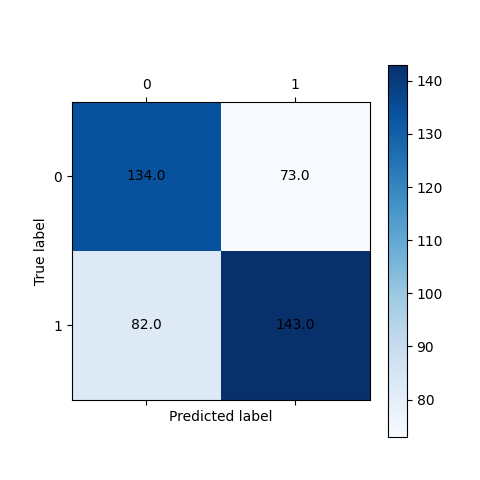
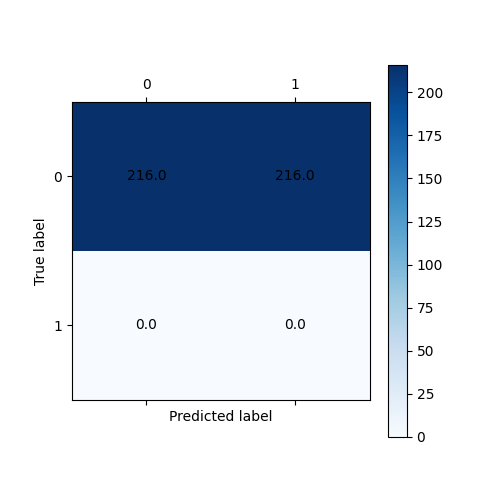
Update

diff --git a/test.py b/test.py
@@ -3,7 +3,7 @@ from exclusiveAI.Composer import Composer
 from exclusiveAI.components.Validation import *
 from exclusiveAI.components.Callbacks import *
 from exclusiveAI.datasets.monk import read_monk1
-from exclusiveAI.utils import confusion_matrix
+from exclusiveAI.utils import confusion_matrix, one_hot_encoding
 from exclusiveAI.components.Initializers import *
 # from exclusiveAI.components import *
 # from exclusiveAI import neural_network
@@ -54,34 +54,36 @@ import numpy as np
 # #
 # # print(res)
 
-train, test = read_monk1()
-train_label = np.array(train.pop('class')).reshape(-1, 1)
-test_label = np.array(test.pop('class')).reshape(-1, 1)
-# remove_id
-train = np.array(train)
+train, train_label, test, test_label = read_monk1()
 
-ea = EarlyStoppingCallback(patience_limit=50)
-values= [0.01, 0.001, 0.0001, 0.00001]
+train = np.array(train.values.tolist())
+train = one_hot_encoding(train)
+test = np.array(test.values.tolist())
+test = one_hot_encoding(test)
+
+
+ea = EarlyStoppingCallback(patience_limit=50, metric='mse')
+values= [0.1, 0.01]
 
 uniform = Uniform(low=-1, high=1)
 
-myconfigurator = ConfiguratorGen(random=True, num_of_configurations=10, regularizations=values, learning_rates=values,
+myconfigurator = ConfiguratorGen(random=False, regularizations=values, learning_rates=values,
                                     loss_functions=['mse'], optimizers=['sgd'],
-                                    activation_functions=['relu'],
-                                    number_of_units=[4, 8, 10], number_of_layers=[1, 2, 3, 5],
-                                    momentums=[0.01], initializers=[uniform], input_shapes=train.shape[-1], verbose=False,
-                                    callbacks=[ea], output_activation='sigmoid'
+                                    activation_functions=['sigmoid'],
+                                    number_of_units=[1, 2, 3, 8, 10], number_of_layers=[1],
+                                    momentums=[0.01], initializers=[uniform], input_shapes=train.shape, verbose=False,
+                                    callbacks=[ea], output_activation='softmax', outputs=2
                                     )
 
 myval = HoldOut(models=myconfigurator, input=train, target=train_label, debug=True)
-config = myval.parallel_hold_out()
+config = myval.hold_out()
 
 ea = EarlyStoppingCallback(patience_limit=50)
-config['callbacks'] = [ea, 'wandb']
+config['callbacks'] = [ea]
 model = Composer(config=config).compose()
 
 print("Model found:", config)
-model.train(train, train_label, epochs=10000)
+model.train(train, train_label, epochs=100)
 
 res = model.evaluate(input=test, input_label=test_label)
 

diff --git a/exclusiveAI/components/Layers/InputLayer.py b/exclusiveAI/components/Layers/InputLayer.py
@@ -5,27 +5,27 @@ import numpy as np
 
 
 class InputLayer(Layer):
-    def __init__(self, input_shape: int):
+    def __init__(self, input_len, units: int):
         super().__init__(
-            units=input_shape,
+            units=units,
             initializer=Initializer(),
             is_trainable=False,
             activation_func=Linear(),
         )
-        self.input_shape = input_shape,
+        self.input_len = input_len
         self.input = None
 
     def __str__(self) -> str:
         return super().__str__()
 
     def initialize(self, name: str = '', verbose: bool = False, **kwargs):
-        self.weights = self.initializer.ones(shape=(self.input_shape[-1] + 1, self.units))
+        self.weights = self.initializer.ones(shape=(self.units+1, self.units))
         self.name = name
         self.verbose = verbose
         self.is_initialized = True
         if self.verbose:
             print(f"Initializing {self.name}")
-            print(f"Input shape: {self.input_shape}")
+            print(f"Input shape: {self.input_len}")
             print(f"Input: {self.input}")
             print(f"Output shape: {self.units}")
             print(f"Activation function: {self.activation_func.name}")

diff --git a/exclusiveAI/components/Layers/OutputLayer.py b/exclusiveAI/components/Layers/OutputLayer.py
@@ -22,12 +22,12 @@ class OutputLayer(Layer):
     def backpropagate(self, y_true: np.ndarray):
         if not self.is_initialized:
             raise Exception("Layer not initialized")
+        if y_true.shape == (y_true.shape[0],):
+            y_true = y_true.reshape(-1, 1)
 
-        if y_true.shape != self.output.shape:
-            raise Exception("Different shapes", y_true.shape, self.output.shape)
 
         # calculate the product between the error signal and incoming weights from current unit
-        loss_btw_output_and_y_true = - self.loss_function.function_derivative(y_true, self.output)
-        self.error = self.activation_func.derivative(self.nets) * loss_btw_output_and_y_true
+        loss_btw_output_and_y_true = self.loss_function.function_derivative(y_true, self.output)
+        self.error = (self.activation_func.derivative(self.nets) * loss_btw_output_and_y_true)
 
         return np.dot(np.insert(self.prev.output, 0, 1, axis=-1).T, self.error)

diff --git a/exclusiveAI/components/Metrics/MetricUtils.py b/exclusiveAI/components/Metrics/MetricUtils.py
@@ -32,9 +32,11 @@ def initializeHistory(model, val: bool):
 
 def addToHistory(model, y_train_pred, y_train_true, y_val_pred, y_val_true):
     for metric in model.metrics:
+        y_train_true = y_train_true.reshape(-1, 1)
         model.history[metric.name].append(metric(y_train_true, y_train_pred))
         if y_val_pred is not None and y_val_true is not None:
-            model.history["val_" + metric.name].append(metric(y_val_true, y_val_pred))
+            y_val_true = y_val_true.reshape(-1, 1)
+            model.history['val_' + metric.name].append(metric(y_val_true, y_val_pred))
 
 
 def printHistory(model, val: bool):
@@ -49,4 +51,6 @@ def calculate(func, target, predicted):
     if func not in MATCH:
         raise ValueError("Unknown metric name: " + func)
     func = MATCH[func]()
+    if target.shape == (target.shape[0],):
+        target = target.reshape(-1, 1)
     return func(predicted, target)

diff --git a/exclusiveAI/datasets/monk.py b/exclusiveAI/datasets/monk.py
@@ -1,4 +1,5 @@
 import pandas as pd
+import numpy as np
 
 __all__ = [
     "read_monk",
@@ -19,13 +20,17 @@ def read_monk(index: int) -> tuple:
         names=["class", "a1", "a2", "a3", "a4", "a5", "a6", "id"]
     ).set_index("id")
 
+    train_label = np.array(train_set_df.pop("class"))
+
     test_set_df = pd.read_csv(
         test_set_filepath,
         sep=" ",
         names=["class", "a1", "a2", "a3", "a4", "a5", "a6", "id"]
     ).set_index("id")
 
-    return train_set_df, test_set_df
+    test_label = np.array(test_set_df.pop("class"))
+
+    return train_set_df, train_label, test_set_df, test_label
 
 
 def read_monk1() -> tuple:

diff --git a/exclusiveAI/Composer.py b/exclusiveAI/Composer.py
@@ -29,6 +29,7 @@ ActivationFunctionsNames = {
     'tanh': Tanh,
     'relu': ReLU,
     'linear': Linear,
+    'softmax':  Softmax,
 }
 
 OptimizersNames = {
@@ -152,7 +153,7 @@ class Composer:
 
     def compose(self):
         layers = []
-        input_layer = InputLayer(self.input_shape)
+        input_layer = InputLayer(self.input_shape[0], self.input_shape[-1])
         layers.append(input_layer)
         for i in range(self.num_layers):
             layers.append(Layer(self.num_of_units[i], self.initializers[i if self.manyInitializers else 0],

diff --git a/exclusiveAI/utils.py b/exclusiveAI/utils.py
@@ -1,4 +1,4 @@
-__all__ = ['utils', 'train_split']
+__all__ = ['utils', 'train_split', 'confusion_matrix', 'one_hot_encoding']
 
 import numpy as np
 import matplotlib.pyplot as plt
@@ -62,3 +62,11 @@ def confusion_matrix(predicted, target):
     plt.ylabel('True label')
     plt.xlabel('Predicted label')
     plt.savefig('res.png')
+
+
+def one_hot_encoding(y):
+    """
+    One hot encoding.
+    """
+    return np.array(np.eye(np.max(y))[y - 1]).reshape(-1, y.shape[-1] * np.max(y))
+

diff --git a/exclusiveAI/components/ActivationFunctions/Softmax.py b/exclusiveAI/components/ActivationFunctions/Softmax.py
@@ -1,0 +1,13 @@
+__all__ = ["Softmax"]
+
+import numpy as np
+from .ActivationFunction import ActivationFunction
+
+
+class Softmax(ActivationFunction):
+    def __init__(self):
+        super().__init__(
+            name="Softmax",
+            function=lambda x: np.exp(x) / np.sum(np.exp(x), axis=0),
+            derivative=lambda x: np.exp(x - x.max()) / np.sum(np.exp(x - x.max()), axis=0),
+        )

diff --git a/exclusiveAI/components/ActivationFunctions/__init__.py b/exclusiveAI/components/ActivationFunctions/__init__.py
@@ -1,5 +1,6 @@
 from .ActivationFunction import *
 from .Sigmoid import *
+from .Softmax import *
 from .Linear import *
 from .Tanh import *
 from .ReLU import *

diff --git a/exclusiveAI/components/Initializers/Initializer.py b/exclusiveAI/components/Initializers/Initializer.py
@@ -12,4 +12,4 @@ class Initializer:
 
     @staticmethod
     def ones(shape):
-        return np.ones(shape)
+        return np.eye(shape[0], shape[1], k=-1)
